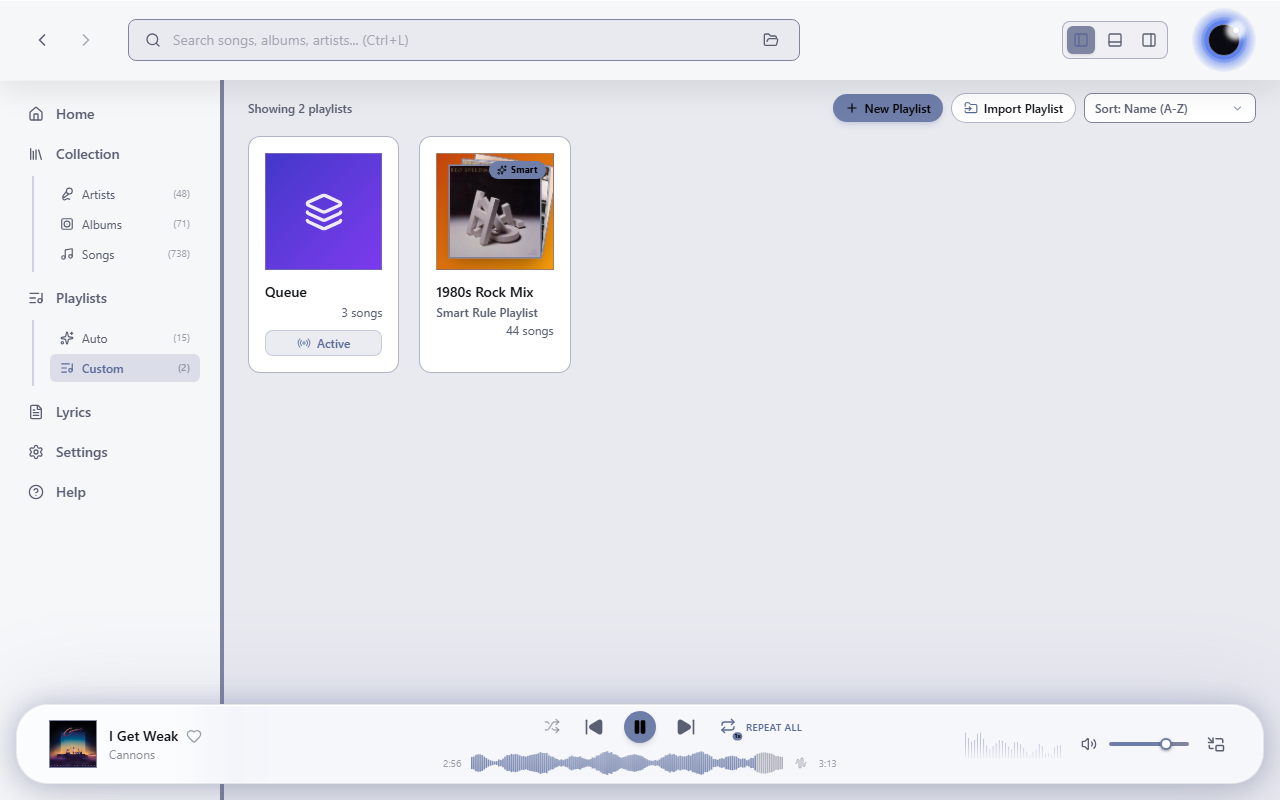
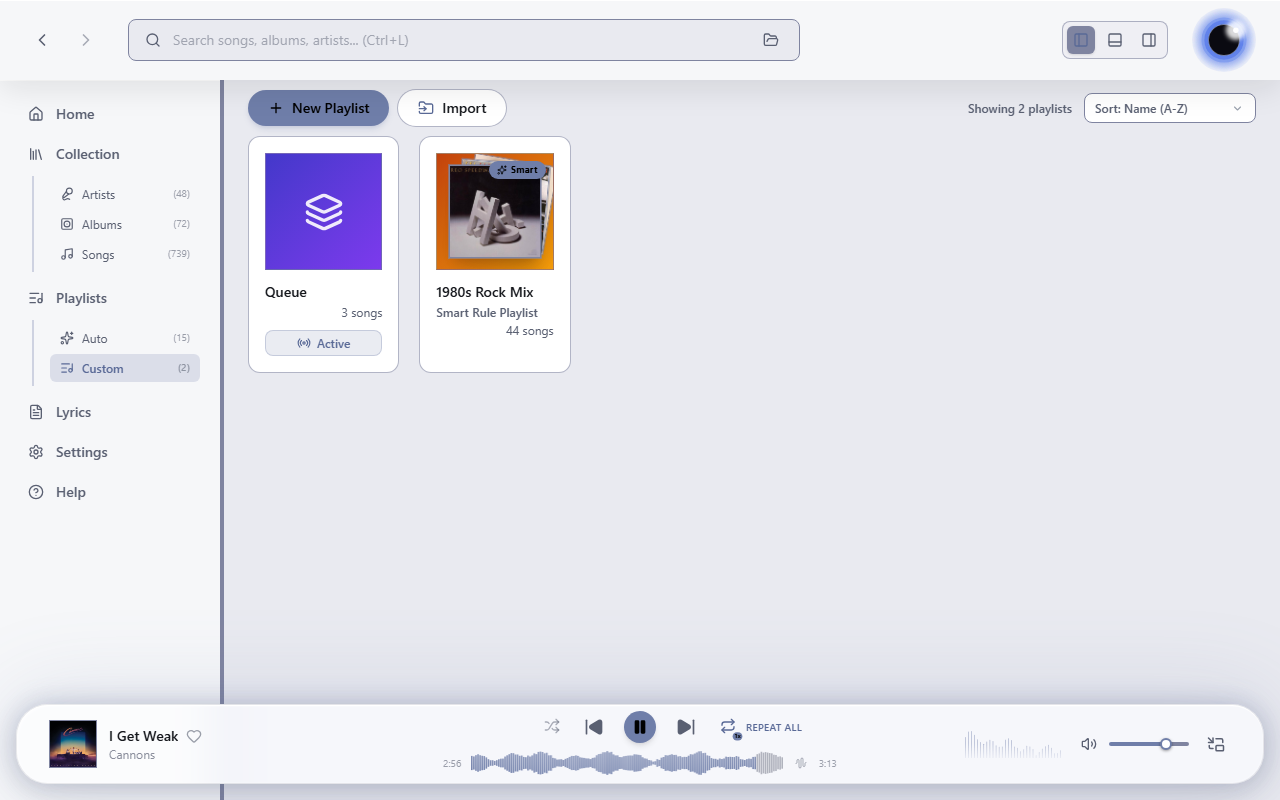
Redesign Custom Playlist header toolbar (#202)
* fix: move playlist header actions left and simplify Import label

Reworks the Custom Playlists toolbar so New Playlist/Import sit
top-left at primary size, matching the larger action buttons used
elsewhere in playlist headers, and shortens "Import Playlist" to
"Import".

* fix: shorten French Import Playlist label to match English

* docs: regenerate playlist screenshots for redesigned header

Changed region(s): [[0.625, 0.0938, 0.8438, 0.1562], [0.1875, 0.0938, 0.3125, 0.1562], [0.3438, 0.125, 0.375, 0.1562]]

diff --git a/src/lib/components/PlaylistsCollectionView.svelte b/src/lib/components/PlaylistsCollectionView.svelte
@@ -236,27 +236,29 @@
     <div class="flex-1 px-6 overflow-y-auto {playerStore.currentSong ? 'pb-28' : 'pb-6'}">
       <!-- Top bar with Filter Info / Sort controls (sticky) -->
       <div class="h-12 flex items-center justify-between sticky top-0 z-20 bg-brand-main pt-2">
-        <!-- Showing Count (Left) -->
-        <div class="text-xs text-brand-text-secondary font-medium">
-          {#if collectionStore.playlistsSubTab === "auto"}
-            {sortedAutoDefs.length === 1 ? i18n.t('playlists.showingOnePlaylist') : i18n.t('playlists.showingPlaylists', { count: sortedAutoDefs.length })}
-          {:else}
-            {sortedPlaylists.length === 1 ? i18n.t('playlists.showingOnePlaylist') : i18n.t('playlists.showingPlaylists', { count: sortedPlaylists.length })}
-          {/if}
-        </div>
-
-        <!-- Actions + Sort Dropdown (Right) -->
+        <!-- Actions (Left) -->
         <div class="flex items-center gap-2">
           {#if collectionStore.playlistsSubTab === "custom"}
-            <Button onclick={() => { showCreateForm = !showCreateForm; }} variant="primary" size="sm" title={i18n.t('playlists.newPlaylistBtn')}>
-              <Plus class="w-3.5 h-3.5" />
+            <Button onclick={() => { showCreateForm = !showCreateForm; }} variant="primary" title={i18n.t('playlists.newPlaylistBtn')}>
+              <Plus class="w-4 h-4" />
               <span>{i18n.t('playlists.newPlaylistBtn')}</span>
             </Button>
-            <Button onclick={handleImportPlaylist} variant="secondary" size="sm" title={i18n.t('playlists.importPlaylistTooltip')}>
-              <FolderInput class="w-3.5 h-3.5 text-brand-accent-text" />
+            <Button onclick={handleImportPlaylist} variant="secondary" title={i18n.t('playlists.importPlaylistTooltip')}>
+              <FolderInput class="w-4 h-4 text-brand-accent-text" />
               <span>{i18n.t('playlists.importPlaylistBtn')}</span>
             </Button>
           {/if}
+        </div>
+
+        <!-- Showing Count + Sort Dropdown (Right) -->
+        <div class="flex items-center gap-3">
+          <div class="text-xs text-brand-text-secondary font-medium">
+            {#if collectionStore.playlistsSubTab === "auto"}
+              {sortedAutoDefs.length === 1 ? i18n.t('playlists.showingOnePlaylist') : i18n.t('playlists.showingPlaylists', { count: sortedAutoDefs.length })}
+            {:else}
+              {sortedPlaylists.length === 1 ? i18n.t('playlists.showingOnePlaylist') : i18n.t('playlists.showingPlaylists', { count: sortedPlaylists.length })}
+            {/if}
+          </div>
 
           <div class="relative">
             {#if collectionStore.playlistsSubTab === "auto"}

diff --git a/src/lib/locales/fr.ts b/src/lib/locales/fr.ts
@@ -360,7 +360,7 @@ export const fr = {
     removeUnavailableBtn: "Retirer {count} indisponibles",
     fileNotFoundTooltip: "Fichier introuvable sur le disque",
     fileNotFoundText: "Introuvable",
-    importPlaylistBtn: "Importer une liste",
+    importPlaylistBtn: "Importer",
     exportPlaylistBtn: "Exporter la liste",
     importPlaylistTooltip: "Importer un fichier de liste (*.m3u, *.m3u8, *.pls, *.xspf)",
     exportPlaylistTooltip: "Exporter la liste active vers un fichier",

diff --git a/src/lib/locales/en.ts b/src/lib/locales/en.ts
@@ -390,7 +390,7 @@ export const en = {
     removeUnavailableBtn: "Remove {count} unavailable",
     fileNotFoundTooltip: "File not found on disk",
     fileNotFoundText: "File not found",
-    importPlaylistBtn: "Import Playlist",
+    importPlaylistBtn: "Import",
     exportPlaylistBtn: "Export Playlist",
     importPlaylistTooltip: "Import playlist file (*.m3u, *.m3u8, *.pls, *.xspf)",
     exportPlaylistTooltip: "Export active playlist to file",
